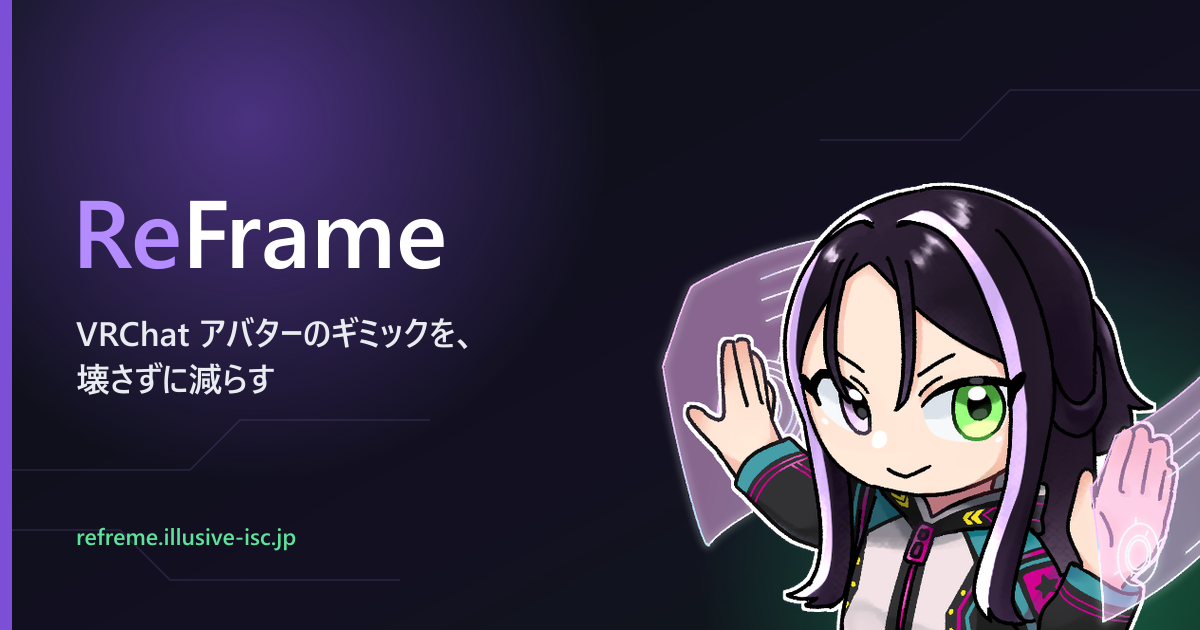
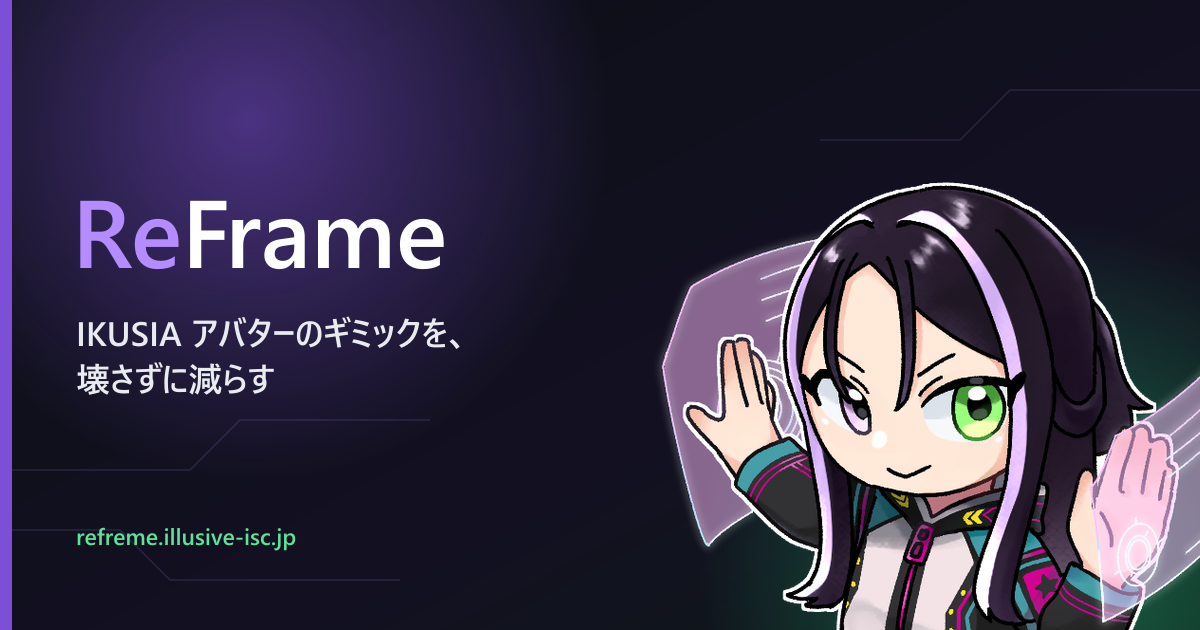
キャッチコピーを IKUSIA アバター向けに変更

Changed region(s): [[0.0617, 0.4825, 0.4008, 0.573]]

diff --git a/src/lib/site.ts b/src/lib/site.ts
@@ -6,7 +6,7 @@ const basePath = '';
 
 export const site = {
 	name: 'ReFrame',
-	tagline: 'VRChat アバターのギミックを、壊さずに減らす',
+	tagline: 'IKUSIA アバターのギミックを、壊さずに減らす',
 	description:
 		'ReFrame は VRChat アバターの衣装・ギミック・エモートのうち使わないものを、元のプレハブを壊さずにビルド時だけ取り除く NDMF 拡張です。同期パラメーターの節約と Quest 簡易対応 (マテリアルの焼き込み・揺れ物の間引き) に対応します。',
 	origin,
